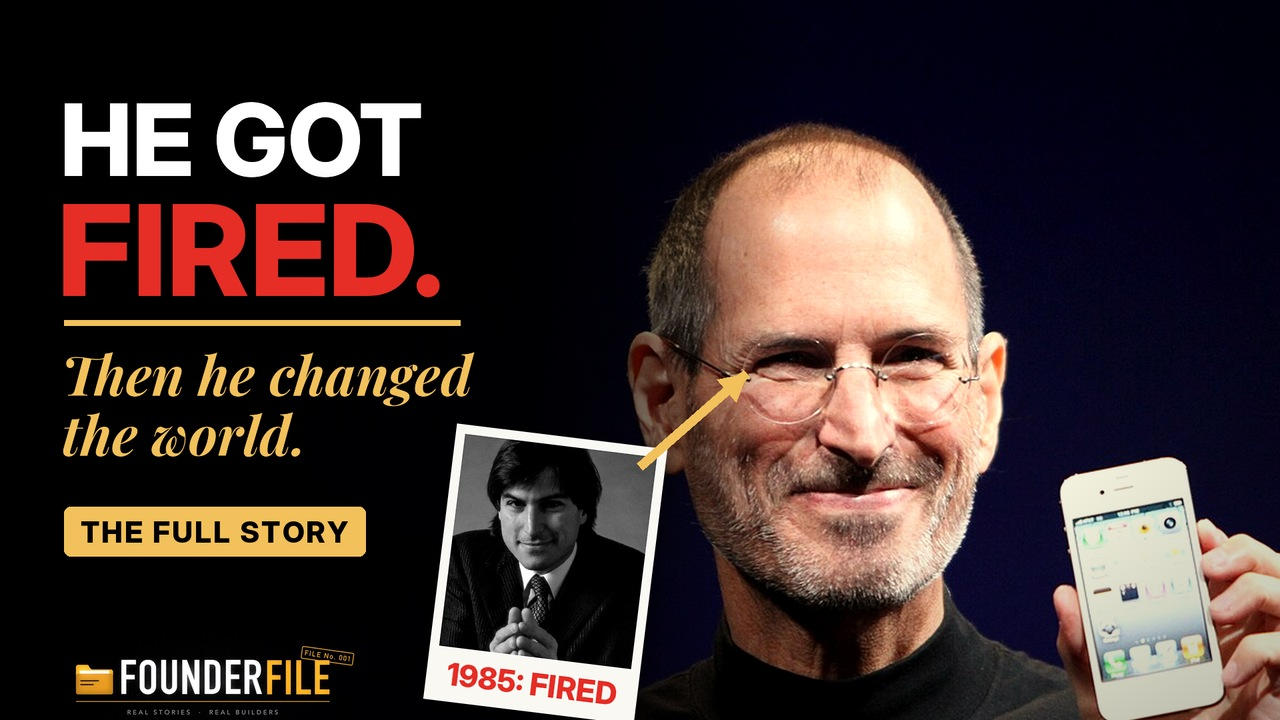
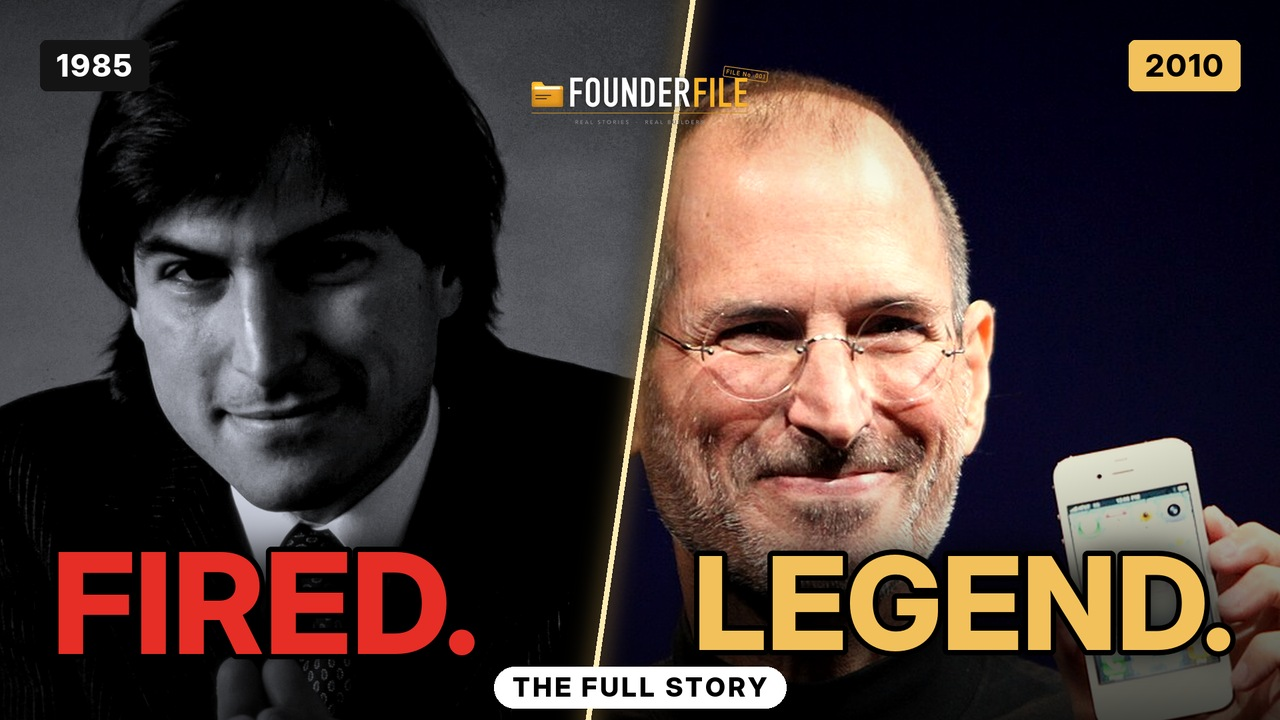
Make the full documentary thumbnail a then-vs-now half split
Diagonal split between 1985 Jobs (B&W, FIRED.) and 2010 Jobs (colour, LEGEND.)
with a glowing gold seam; straight-split and inset versions kept as alternates.

Claude-Session: https://claude.ai/code/session_01PWFXBn3PiQuD8bkB8roEX4

diff --git a/video_output/steve_jobs_full/source/thumbs.py b/video_output/steve_jobs_full/source/thumbs.py
@@ -1,0 +1,123 @@
+"""Thumbnails / covers for all Steve Jobs videos (Founder File)."""
+import numpy as np, math
+from PIL import Image, ImageDraw, ImageFilter
+import reel as RL, engine as E
+
+GOLD, RED, WHITE, BLACK = (242, 193, 91), (230, 45, 38), (255, 255, 255), (0, 0, 0)
+OUT = "../reels/out/thumbs"; import os; os.makedirs(OUT, exist_ok=True)
+
+def put(base, arr, x, y, anchor="lt", a=1.0, pad=None):
+    im = Image.fromarray(arr); pd = pad if pad is not None else 40
+    bw, bh = im.width - 2 * pd, im.height - 2 * pd
+    if anchor[0] == "m": x -= bw / 2
+    elif anchor[0] == "r": x -= bw
+    if anchor[1] == "m": y -= bh / 2
+    elif anchor[1] == "b": y -= bh
+    if a < 1: arr = arr.copy(); arr[..., 3] = (arr[..., 3] * a).astype(np.uint8); im = Image.fromarray(arr)
+    base.alpha_composite(im, (int(x - pd), int(y - pd)))
+def fit(txt, font, size, maxw):
+    while RL.tw(txt, font, size) > maxw: size -= 4
+    return size
+def photo(key, g, size, z, px, py):
+    return E.kb_crop(E.graded(key, g), z, px, py, size).convert("RGBA")
+def hfade(im, x0, x1, left_dark=True):
+    """darken towards the left (for text) with a smooth ramp between x0..x1"""
+    a = np.array(im).astype(np.float32); w = a.shape[1]
+    xs = np.arange(w)[None, :, None]; m = np.clip((xs - x0) / (x1 - x0), 0, 1) ** 1.3
+    if not left_dark: m = 1 - m
+    a[..., :3] *= 0.08 + 0.92 * m
+    return Image.fromarray(a.astype(np.uint8))
+def vignette(im, s=0.45):
+    a = np.array(im).astype(np.float32); h, w = a.shape[:2]
+    yy, xx = np.mgrid[0:h, 0:w]; r = np.sqrt(((xx - w / 2) / (w / 2)) ** 2 + ((yy - h / 2) / (h / 2)) ** 2)
+    a[..., :3] *= (1 - s * np.clip(r - 0.6, 0, 1))[..., None]; return Image.fromarray(a.astype(np.uint8))
+def polaroid(key, g, size, z, px, py, angle, label, lab_col=RED):
+    w, h = size; im = photo(key, g, (w, h), z, px, py)
+    fr = Image.new("RGBA", (w + 28, h + 96), (250, 248, 242, 255)); fr.paste(im, (14, 14))
+    d = ImageDraw.Draw(fr); fs = fit(label, "xb", 46, w - 10)
+    put(fr, RL.stext(label, "xb", fs, lab_col, shadow=False), (w + 28) / 2, h + 14 + 41, "mm")
+    sh = Image.new("RGBA", (fr.width + 80, fr.height + 80), (0, 0, 0, 0))
+    ImageDraw.Draw(sh).rectangle([40, 48, fr.width + 40, fr.height + 48], fill=(0, 0, 0, 170))
+    sh = sh.filter(ImageFilter.GaussianBlur(16)); sh.alpha_composite(fr, (40, 40))
+    return sh.rotate(angle, resample=Image.BICUBIC, expand=True)
+def logo(base, x, y, width, anchor="lt"):
+    lg = RL.logo_img(); s = width / lg.width; lg = lg.resize((int(lg.width * s), int(lg.height * s)), Image.LANCZOS)
+    if anchor == "mt": x -= lg.width / 2
+    if anchor == "rt": x -= lg.width
+    base.alpha_composite(lg, (int(x), int(y)))
+def badge(base, x, y, text, fill=RED, col=WHITE, size=40, anchor="l"):
+    d = ImageDraw.Draw(base); w = RL.tw(text, "xb", size, 3) + 50; h = size + 30
+    if anchor == "m": x -= w / 2
+    d.rounded_rectangle([x, y, x + w, y + h], radius=10, fill=fill + (255,))
+    put(base, RL.stext(text, "xb", size, col, track=3, shadow=False), x + w / 2, y + h / 2 + 1, "mm")
+def arrow(base, p0, p1, col=GOLD, width=14):
+    d = ImageDraw.Draw(base); d.line([p0, p1], fill=col + (255,), width=width)
+    ang = math.atan2(p1[1] - p0[1], p1[0] - p0[0]); L = 46
+    pts = [p1, (p1[0] - L * math.cos(ang - 0.5), p1[1] - L * math.sin(ang - 0.5)), (p1[0] - L * math.cos(ang + 0.5), p1[1] - L * math.sin(ang + 0.5))]
+    d.polygon(pts, fill=col + (255,))
+
+# ------------------------------------------------ 16:9 — full documentary
+def full_doc():
+    W, H = 1920, 1080
+    bg = photo("headshot2010", "warm", (W, H), 1.0, 0, 0)
+    base = Image.new("RGBA", (W, H), (8, 8, 14, 255))
+    src = E.graded("headshot2010", "warm"); s = 1.32 * H / src.height
+    fg = src.resize((int(src.width * s), int(src.height * s)), Image.LANCZOS).convert("RGBA")
+    base.alpha_composite(fg, (W - fg.width + 560, -int(0.05 * fg.height)))
+    base = vignette(hfade(base, 760, 1180), 0.35).convert("RGBA")
+    p = polaroid("jobs1984b", "bw", (290, 320), 1.25, 0, -0.35, -7, "1985: FIRED")
+    base.alpha_composite(p, (590, 590))
+    arrow(base, (960, 700), (1120, 560))
+    put(base, RL.stext("HE GOT", "xb", 150, WHITE, stroke=0), 90, 210, "lm")
+    put(base, RL.stext("FIRED.", "xb", 190, RED, stroke=0), 86, 375, "lm")
+    d = ImageDraw.Draw(base); d.rectangle([96, 480, 690, 488], fill=GOLD + (255,))
+    put(base, RL.stext("Then he changed", "pfi", 82, GOLD), 92, 560, "lm")
+    put(base, RL.stext("the world.", "pfi", 82, GOLD), 92, 650, "lm")
+    badge(base, 96, 760, "THE FULL STORY", fill=GOLD, col=BLACK, size=44)
+    logo(base, 70, 900, 470)
+    base.convert("RGB").resize((1280, 720), Image.LANCZOS).save(f"{OUT}/thumb_full_documentary_1280x720.jpg", quality=93)
+
+# ------------------------------------------------ 16:9 — 1-minute video
+def short_video():
+    W, H = 1920, 1080
+    base = E.kb_crop(E.blurred_bg("mac1984", "warm", 0.75), 1.0, 0.6, 0, (W, H)).convert("RGBA")
+    src = E.graded("mac1984", "warm"); s = 1.15 * H / src.height * 1.0
+    fg = src.resize((int(src.width * s), int(src.height * s)), Image.LANCZOS).convert("RGBA")
+    fg.putalpha(E.feather_mask(fg.width, fg.height, 90)); base.alpha_composite(fg, (W - fg.width - 120, -int(0.02 * fg.height)))
+    base = vignette(hfade(base, 760, 1180), 0.3).convert("RGBA")
+    put(base, RL.stext("THE MAN", "xb", 160, WHITE), 90, 220, "lm")
+    put(base, RL.stext("WHO LOST", "xb", 160, WHITE), 90, 390, "lm")
+    put(base, RL.stext("APPLE", "xb", 210, GOLD), 84, 580, "lm")
+    badge(base, 96, 720, "60-SECOND STORY", fill=RED, size=44)
+    logo(base, 70, 880, 460)
+    base.convert("RGB").resize((1280, 720), Image.LANCZOS).save(f"{OUT}/thumb_1min_video_1280x720.jpg", quality=93)
+
+# ------------------------------------------------ 9:16 — reel covers
+def cover(n, key, g, z, px, py, h1, h2, inset, inset_label, inset_angle, part_col=GOLD):
+    W, H = 1080, 1920
+    base = photo(key, g, (W, H), z, px, py)
+    a = np.array(base).astype(np.float32); yy = np.arange(H)[:, None, None]
+    a[..., :3] *= (1 - 0.55 * np.clip((yy - 900) / 700, 0, 1)) * (1 - 0.35 * np.clip((400 - yy) / 400, 0, 1))
+    base = vignette(Image.fromarray(a.astype(np.uint8)), 0.3).convert("RGBA")
+    d = ImageDraw.Draw(base)
+    fs1 = fit(h1, "xb", 110, W - 160); w1 = RL.tw(h1, "xb", fs1) + 70
+    d.rounded_rectangle([W / 2 - w1 / 2, 1060, W / 2 + w1 / 2, 1060 + fs1 + 44], radius=20, fill=GOLD + (255,))
+    put(base, RL.stext(h1, "xb", fs1, BLACK, shadow=False), W / 2, 1060 + (fs1 + 44) / 2 + 2, "mm")
+    fs2 = fit(h2, "xb", 124, W - 110)
+    put(base, RL.stext(h2, "xb", fs2, WHITE, stroke=8), W / 2, 1060 + fs1 + 44 + 95, "mm")
+    if inset:
+        k, gg, zz, ipx, ipy = inset
+        p = polaroid(k, gg, (380, 300), zz, ipx, ipy, inset_angle, inset_label, RED if n == 1 else BLACK)
+        base.alpha_composite(p, (W - p.width - 20, 1440) if n != 2 else (20, 1440))
+    badge(base, 70 if n != 1 else 70, 1500 if n == 2 else 1520, f"PART {n}", fill=RED, size=54) if n != 2 else badge(base, W - 300, 1520, f"PART {n}", fill=RED, size=54)
+    logo(base, W / 2, 80, 620, "mt")
+    base.convert("RGB").save(f"{OUT}/cover_reel{n}_1080x1920.jpg", quality=93)
+
+if __name__ == "__main__":
+    full_doc(); short_video()
+    cover(1, "jobs1984b", "bw", 1.08, -0.3, -0.6, "FIRED FROM HIS", "OWN COMPANY?!",
+          ("apple1", "warm", 1.1, 0, 0), "HIS COMPANY", -6)
+    cover(2, "jobs07a", "neutral", 1.25, -0.45, -0.55, "THE DAY PHONES", "CHANGED FOREVER",
+          ("iphonedock", "neutral", 1.15, 0, -0.2), "THE 1ST iPHONE", 6)
+    cover(3, "redshawl", "warm", 1.0, 0, -0.45, "HE ALSO", "BUILT PIXAR?!",
+          ("pixarhq", "warm", 1.1, 0, 0), "PIXAR", -6)

diff --git a/video_output/steve_jobs_full/source/thumb_split.py b/video_output/steve_jobs_full/source/thumb_split.py
@@ -1,0 +1,58 @@
+"""Main documentary thumbnail: 'then vs now' half split (1985 B&W | 2010 colour)."""
+import numpy as np
+from PIL import Image, ImageDraw, ImageFilter
+import reel as RL, engine as E
+from thumbs import put, fit, badge, logo, GOLD, RED, WHITE, BLACK, OUT
+
+W, H = 1920, 1080
+
+def placed(key, g, face_xy, face_target, scale):
+    """scale image by `scale`, put the image point face_xy (fractions) at canvas point face_target"""
+    src = E.graded(key, g); s = scale * H / src.height
+    im = src.resize((int(src.width * s), int(src.height * s)), Image.LANCZOS)
+    canvas = Image.new("RGB", (W, H), (0, 0, 0))
+    x = int(face_target[0] - face_xy[0] * im.width); y = int(face_target[1] - face_xy[1] * im.height)
+    canvas.paste(im, (x, y)); return np.array(canvas).astype(np.float32)
+
+def make(diagonal=True, name="thumb_full_documentary_split"):
+    left = placed("jobs1984b", "bw", (0.50, 0.30), (500, 400), 1.55)      # young Jobs face ~ left-centre
+    right = placed("headshot2010", "warm", (0.52, 0.38), (1430, 420), 1.45)  # 2010 Jobs face ~ right-centre
+    # warm the B&W slightly cold, push contrast
+    left = np.clip((left - 128) * 1.12 + 120, 0, 255) * np.array([0.96, 0.98, 1.04])
+    # split mask (diagonal or vertical) with a short soft transition zone
+    yy, xx = np.mgrid[0:H, 0:W].astype(np.float32)
+    top_x, bot_x = (1040, 880) if diagonal else (960, 960)
+    line_x = top_x + (bot_x - top_x) * yy / H
+    m = np.clip((xx - line_x) / 26 + 0.5, 0, 1)[..., None]
+    img = left * (1 - m) + right * m
+    # vignette + darker bottom band for the text
+    r = np.sqrt(((xx - W / 2) / (W / 2)) ** 2 + ((yy - H / 2) / (H / 2)) ** 2)
+    img *= (1 - 0.40 * np.clip(r - 0.55, 0, 1))[..., None]
+    img *= (1 - 0.62 * np.clip((yy - 640) / 440, 0, 1) ** 1.2)[..., None]
+    base = Image.fromarray(np.clip(img, 0, 255).astype(np.uint8)).convert("RGBA")
+    # glowing gold seam
+    glow = Image.new("RGBA", (W, H), (0, 0, 0, 0)); gd = ImageDraw.Draw(glow)
+    gd.line([(top_x, -10), (bot_x, H + 10)], fill=GOLD + (255,), width=26)
+    glow = glow.filter(ImageFilter.GaussianBlur(22)); base.alpha_composite(glow)
+    d = ImageDraw.Draw(base); d.line([(top_x, -10), (bot_x, H + 10)], fill=(255, 236, 180, 255), width=8)
+    # year tags
+    badge(base, 60, 60, "1985", fill=(20, 20, 20), col=WHITE, size=46)
+    badge(base, W - 60 - (RL.tw("2010", "xb", 46, 3) + 50), 60, "2010", fill=GOLD, col=BLACK, size=46)
+    # big words
+    fs = fit("FIRED.", "xb", 210, 760)
+    put(base, RL.stext("FIRED.", "xb", fs, RED, stroke=8), 70, 905, "lm")
+    fs2 = fit("LEGEND.", "xb", 210, 820)
+    put(base, RL.stext("LEGEND.", "xb", fs2, GOLD, stroke=8), W - 60, 905, "rm")
+    # centre seam label + logo
+    mid_x = (top_x + bot_x) / 2
+    pill = "THE FULL STORY"; pw = RL.tw(pill, "xb", 40, 4) + 56
+    d.rounded_rectangle([mid_x - pw / 2, 1000, mid_x + pw / 2, 1062], radius=31, fill=WHITE + (255,))
+    put(base, RL.stext(pill, "xb", 40, BLACK, track=4, shadow=False), mid_x, 1031, "mm")
+    logo(base, mid_x, 40, 400, "mt")
+    out = base.convert("RGB").resize((1280, 720), Image.LANCZOS)
+    out.save(f"{OUT}/{name}_1280x720.jpg", quality=93); return out
+
+if __name__ == "__main__":
+    a = make(True, "thumb_full_documentary_split")
+    b = make(False, "thumb_full_documentary_split_straight")
+    sh = Image.new("RGB", (1280, 1440)); sh.paste(a, (0, 0)); sh.paste(b, (0, 720)); sh.save(f"{OUT}/rev_split.jpg", quality=85)
